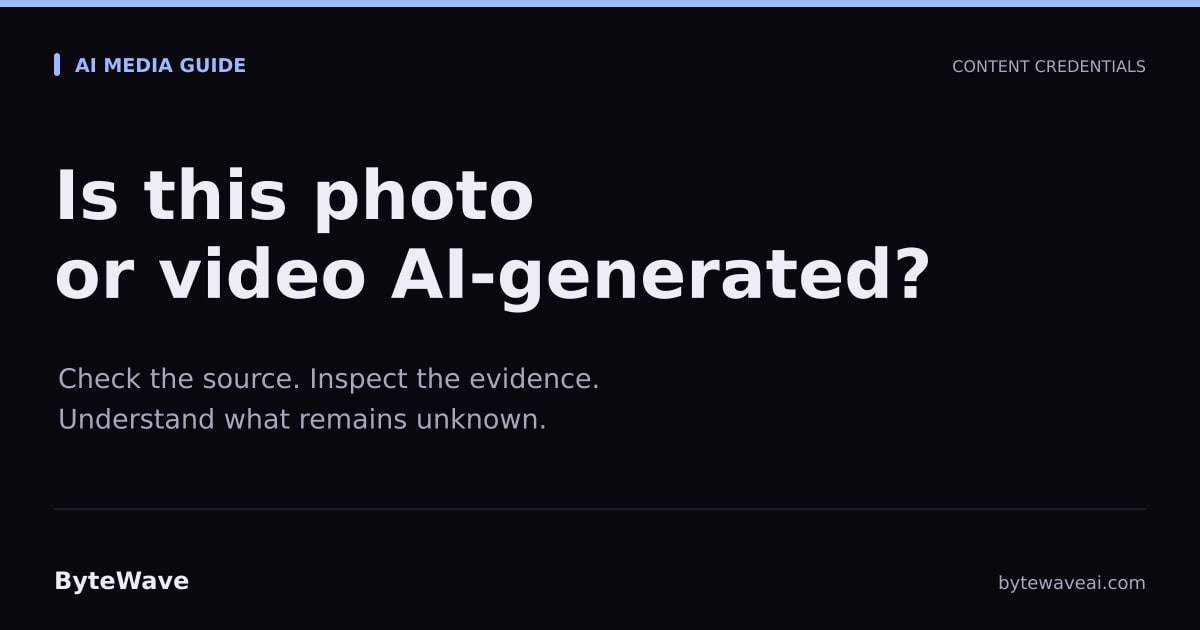
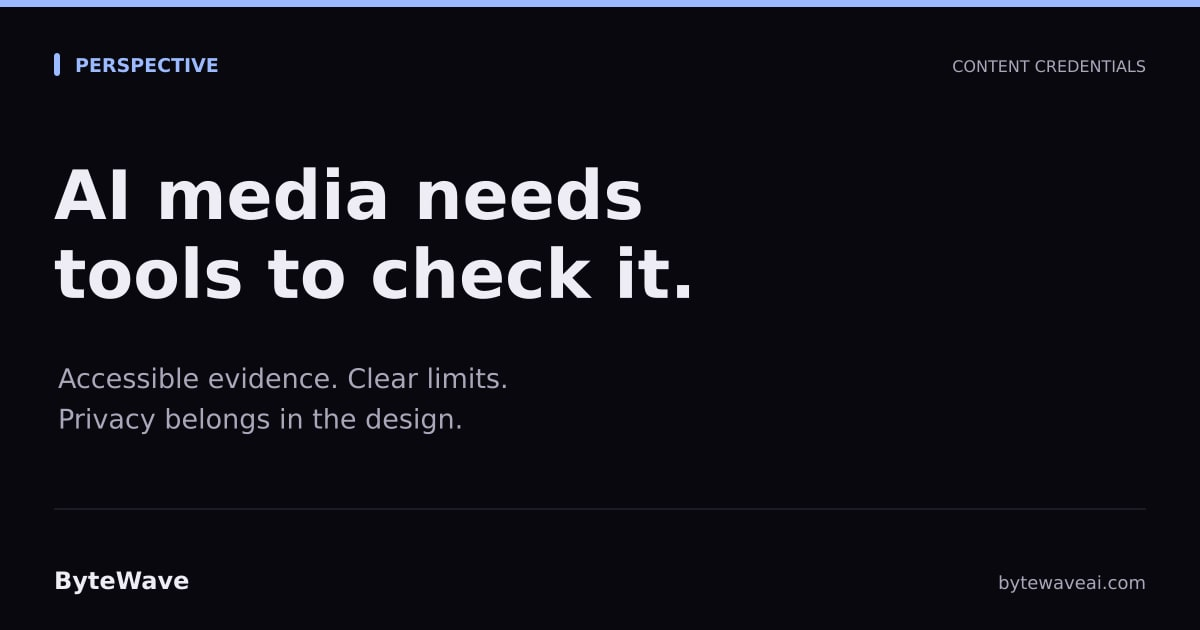
Separate AI-media perspective from C2PA tutorial and remove waiting step

Changed region(s): [[0.0308, 0.2413, 0.7708, 0.5127], [0.0308, 0.573, 0.4933, 0.6937], [0.0617, 0.0905, 0.2158, 0.1206]]

diff --git a/blog/how-to-check-ai-generated-photos-videos.html b/blog/how-to-check-ai-generated-photos-videos.html
@@ -3,24 +3,24 @@
 <head>
     <meta charset="UTF-8">
     <meta name="viewport" content="width=device-width, initial-scale=1.0">
-    <title>How to Check AI-Generated Photos and Videos - ByteWave</title>
-    <meta name="description" content="Check a photo or video for AI-generation evidence. Learn how sources, C2PA Content Credentials, and ByteWave provenance badges help—and where they stop.">
+    <title>Why We Need AI-Media Checking Tools - ByteWave</title>
+    <meta name="description" content="Creating synthetic media is easy. People need accessible, privacy-respecting tools to inspect its origins, understand the evidence, and recognize uncertainty.">
     <link rel="canonical" href="https://bytewaveai.com/blog/how-to-check-ai-generated-photos-videos.html">
     <meta property="og:type" content="article">
-    <meta property="og:title" content="How to Check Whether a Photo or Video Is AI-Generated">
-    <meta property="og:description" content="Check a photo or video for AI-generation evidence. Learn how sources, C2PA Content Credentials, and ByteWave provenance badges help—and where they stop.">
+    <meta property="og:title" content="Why We Need Tools to Check AI-Generated Photos and Videos">
+    <meta property="og:description" content="Creating synthetic media is easy. People need accessible, privacy-respecting tools to inspect its origins, understand the evidence, and recognize uncertainty.">
     <meta property="og:url" content="https://bytewaveai.com/blog/how-to-check-ai-generated-photos-videos.html">
     <meta property="og:site_name" content="ByteWave">
     <meta property="og:image" content="https://bytewaveai.com/assets/social/how-to-check-ai-generated-photos-videos.jpg">
     <meta property="og:image:type" content="image/jpeg">
     <meta property="og:image:width" content="1200">
     <meta property="og:image:height" content="630">
-    <meta property="og:image:alt" content="Is this photo or video AI-generated? A ByteWave guide to checking the evidence.">
+    <meta property="og:image:alt" content="Why we need tools to check AI media. Accessible evidence, clear limits, and privacy.">
     <meta name="twitter:card" content="summary_large_image">
-    <meta name="twitter:title" content="How to Check Whether a Photo or Video Is AI-Generated">
-    <meta name="twitter:description" content="Check a photo or video for AI-generation evidence. Learn how sources, C2PA Content Credentials, and ByteWave provenance badges help—and where they stop.">
+    <meta name="twitter:title" content="Why We Need Tools to Check AI-Generated Photos and Videos">
+    <meta name="twitter:description" content="Creating synthetic media is easy. People need accessible, privacy-respecting tools to inspect its origins, understand the evidence, and recognize uncertainty.">
     <meta name="twitter:image" content="https://bytewaveai.com/assets/social/how-to-check-ai-generated-photos-videos.jpg">
-    <meta name="twitter:image:alt" content="Is this photo or video AI-generated? A ByteWave guide to checking the evidence.">
+    <meta name="twitter:image:alt" content="Why we need tools to check AI media. Accessible evidence, clear limits, and privacy.">
     <meta property="article:published_time" content="2026-09-19">
     <meta property="article:modified_time" content="2026-09-19">
     <link rel="icon" href="/favicon-48x48.png">
@@ -36,8 +36,8 @@ article{overflow-wrap:anywhere}h2[id]{scroll-margin-top:6rem}li+li{margin-top:.6
   "@graph": [
     {
       "@type": "BlogPosting",
-      "headline": "How to Check Whether a Photo or Video Is AI-Generated",
-      "description": "Check a photo or video for AI-generation evidence. Learn how sources, C2PA Content Credentials, and ByteWave provenance badges help—and where they stop.",
+      "headline": "Why We Need Tools to Check AI-Generated Photos and Videos",
+      "description": "Creating synthetic media is easy. People need accessible, privacy-respecting tools to inspect its origins, understand the evidence, and recognize uncertainty.",
       "url": "https://bytewaveai.com/blog/how-to-check-ai-generated-photos-videos.html",
       "mainEntityOfPage": "https://bytewaveai.com/blog/how-to-check-ai-generated-photos-videos.html",
       "datePublished": "2026-09-19",
@@ -81,7 +81,7 @@ article{overflow-wrap:anywhere}h2[id]{scroll-margin-top:6rem}li+li{margin-top:.6
         {
           "@type": "ListItem",
           "position": 3,
-          "name": "How to Check Whether a Photo or Video Is AI-Generated",
+          "name": "Why We Need Tools to Check AI-Generated Photos and Videos",
           "item": "https://bytewaveai.com/blog/how-to-check-ai-generated-photos-videos.html"
         }
       ]
@@ -105,22 +105,17 @@ article{overflow-wrap:anywhere}h2[id]{scroll-margin-top:6rem}li+li{margin-top:.6
 </nav>
 <main id="main">
 <article>
-    <p class="eyebrow">AI media guide</p>
-    <h1>How to Check Whether a Photo or Video Is AI-Generated</h1>
+    <p class="eyebrow">Perspective</p>
+    <h1>Why We Need Tools to Check AI-Generated Photos and Videos</h1>
     <p class="meta">By <a href="/about.html">ByteWave</a> · Published <time datetime="2026-09-19">September 19, 2026</time> · Updated <time datetime="2026-09-19">September 19, 2026</time></p>
     <p class="disclosure">Published by ByteWave, which makes the app discussed here. AI tools assisted research, drafting, and editing.</p>
 
-    <p class="lead">Someone sends you a surprising photo or video. Before you forward it, look for its original source and any available Content Credentials. A confident-looking clip, an AI detector score, and a verified AI-generation disclosure are different kinds of evidence.</p>
-    <p class="quick-links"><a href="#check">A practical checking process</a><a href="#tools">Why accessible checking tools matter</a><a href="#bytewave">Try the ByteWave tutorial</a></p>
+    <p class="lead">Making synthetic media easy to create should come with a corresponding investment in helping people understand what they receive. We believe tools for inspecting media should be accessible, respect privacy, and explain their evidence clearly. That is part of what we are building in ByteWave.</p>
+    <p class="quick-links"><a href="#check">Why context still matters</a><a href="#tools">Why accessible checking tools matter</a><a href="#bytewave">Try the ByteWave tutorial</a></p>
 
-    <h2 id="check">Start with the claim and the original source</h2>
-    <ol>
-        <li><strong>Identify what is being claimed.</strong> “This event happened yesterday” requires different evidence from “this creator used AI.” Write down the claim before deciding what to check.</li>
-        <li><strong>Find the earliest available source.</strong> Ask the sender where the file came from. Look for the original post, creator, date, and surrounding context.</li>
-        <li><strong>Request the original file when possible.</strong> Keep a copy before editing or removing metadata. A screenshot of a post gives you less of the original file to inspect.</li>
-        <li><strong>Inspect available provenance.</strong> Check whether the file carries a verifiable disclosure of AI generation. The <a href="/tutorials/check-c2pa-content-credentials/">ByteWave tutorial</a> explains its badges and how to read them.</li>
-        <li><strong>Check the underlying story separately.</strong> Look for corroboration from identifiable sources. If you cannot establish the claim, say that rather than presenting your guess as fact.</li>
-    </ol>
+    <h2 id="check">People need evidence, not another confident answer</h2>
+    <p>Imagine receiving a clip presented as footage of an event yesterday. There are two questions: how was the file made, and does it support the story attached to it? A tool that addresses only the first cannot settle the second. Even a camera recording could be old footage shared with a new caption.</p>
+    <p>That is why we want checking tools to complement source research. The original creator, date, context, and corroborating evidence still matter. A useful interface should help someone understand the evidence they have, without pretending to resolve questions it cannot answer.</p>
 
     <h2>What C2PA Content Credentials can tell you</h2>
     <p>C2PA Content Credentials carry signed statements about a file's origin and editing history, which can include AI use. Validation checks the credential's integrity and connection to the asset; it does not certify that a scene happened. Credentials are optional, so their absence is not proof of either camera capture or AI generation. <a href="https://spec.c2pa.org/specifications/specifications/2.2/explainer/Explainer.html">Source: the C2PA explainer</a>.</p>
@@ -128,7 +123,6 @@ article{overflow-wrap:anywhere}h2[id]{scroll-margin-top:6rem}li+li{margin-top:.6
 
     <h2>Why an AI detector and a credential reader are different</h2>
     <p>A detector's classification is an assessment. A credential reader examines recorded claims and their verification status. When choosing a tool, ask which kind of result it provides, whether its score is calibrated, and what it reports when evidence is missing. Do not convert a percentage into a certainty the tool has not established.</p>
-    <p>In ByteWave, <strong>Verified AI-generated</strong> is distinct from the heuristic labels <strong>Likely synthetic</strong> and <strong>Likely camera capture</strong>. Its displayed metadata score is not a measured probability that an event is real. The tutorial covers these differences before you draw a conclusion.</p>
 
     <h2 id="tools">People need accessible ways to inspect media</h2>
     <p>Our position is straightforward: if tools make it easy to create synthetic media, people should also have accessible ways to examine the evidence attached to it. That should include the person receiving a family message, not just a newsroom or a forensic specialist.</p>
@@ -137,9 +131,9 @@ article{overflow-wrap:anywhere}h2[id]{scroll-margin-top:6rem}li+li{margin-top:.6
 
     <h2>What if sharing removed the credentials?</h2>
     <p>C2PA documents that credentials can be separated from media. Some implementations can rediscover them using supported watermarks or fingerprints, but that capability is not universal. An ordinary embedded-credential check should not be mistaken for a search of every possible external record. <a href="https://c2pa.org/faqs/">Source: C2PA's explanation of stripped metadata</a>.</p>
-    <p>Try obtaining the original file from its source. If the result is still inconclusive, keep that uncertainty in your description when discussing the media.</p>
+    <p>This is a design challenge for checking tools: missing evidence needs an honest explanation. A file should not receive a reassuring verdict merely because the information needed to assess it is unavailable.</p>
 
-    <h2 id="bytewave">Check the available evidence in ByteWave</h2>
+    <h2 id="bytewave">Putting that principle into ByteWave</h2>
     <p>The <a href="/tutorials/check-c2pa-content-credentials/">C2PA Content Credentials tutorial</a> walks through importing a photo or video, opening its provenance badge, and interpreting the result. It also explains why a ByteWave export signature and a source's AI-generation declaration answer different questions.</p>
     <div class="callout"><h2>Start with one file</h2><p>Bring a photo or video you want to examine and follow the written steps.</p><a class="button" href="/tutorials/check-c2pa-content-credentials/">Check Content Credentials in ByteWave</a></div>
     <p>For feed controls, see our <a href="/blog/reduce-ai-videos-facebook-feed.html">Facebook guide</a> and <a href="/blog/reduce-ai-content-tiktok-feed.html">TikTok guide</a>. For questions about giving an agent access to your accounts, read our <a href="/blog/meta-muse-privacy-security.html">Meta Muse privacy and security guide</a>.</p>

diff --git a/tutorials/check-c2pa-content-credentials/index.html b/tutorials/check-c2pa-content-credentials/index.html
@@ -119,7 +119,6 @@ article{overflow-wrap:anywhere}h2[id]{scroll-margin-top:6rem}li+li{margin-top:.6
         <li><strong>Keep the original.</strong> Start with the original photo or video available to you. Save a copy before editing, exporting, or using metadata-removal tools.</li>
         <li><strong>Import the media into ByteWave.</strong> Use the editor's media import flow to choose your photo or video. Provenance can appear during import review; you can also inspect the imported clip in the editor.</li>
         <li><strong>Select the clip in the timeline.</strong> Look for its provenance badge. If the badge controls are collapsed, expand them with the hexagon control labeled <strong>Show Badges</strong>.</li>
-        <li><strong>Wait for the check to finish.</strong> A <strong>Checking provenance</strong> state is not a completed assessment.</li>
         <li><strong>Tap or click the provenance badge.</strong> Its chevron expands the details. Read the status text and available details rather than judging by the badge's color alone. Tap it again to collapse it.</li>
         <li><strong>Keep your conclusion as specific as the result.</strong> A verified AI-generation disclosure, a metadata-based assessment, and an unverified file support different statements.</li>
     </ol>
@@ -149,11 +148,11 @@ article{overflow-wrap:anywhere}h2[id]{scroll-margin-top:6rem}li+li{margin-top:.6
     <h2 id="limits">Why you might not get a verified result</h2>
     <p>C2PA credentials are optional and can be removed. A file without them is not automatically real or fake. A valid credential also does not independently prove that the event depicted happened. <a href="https://spec.c2pa.org/specifications/specifications/2.2/explainer/Explainer.html">Read C2PA's goals and limits</a>.</p>
     <p>ByteWave's embedded-credential check is not a universal detector for every AI generator or file. Unsupported, invalid, or untrusted credentials may be inconclusive. It does not promise to recover remote credentials or decode invisible AI watermarks such as SynthID.</p>
-    <p>If a received copy gives no useful result, ask for the original file and import that. Avoid exporting or removing metadata first. If the check remains inconclusive, use the <a href="/blog/how-to-check-ai-generated-photos-videos.html">source-checking process in our AI-media guide</a>.</p>
+    <p>If a received copy gives no useful result, ask for the original file and import that. Avoid exporting or removing metadata first. If the check remains inconclusive, look for the original creator, date, and context, and corroborate the claim with other sources.</p>
 
     <h2>Do I need to publish the file?</h2>
     <p>No. Inspecting an imported clip does not require posting it to ByteWave's public feed. Embedded credential verification runs locally; obtaining an original from iCloud Photos may still require a network connection. Optional publishing is a separate action. See the <a href="/privacy.html">ByteWave privacy policy</a>.</p>
-    <p>For the broader purpose of provenance, read <a href="/blog/provenance.html">Provenance, not prominence</a>. Our <a href="/blog/how-to-check-ai-generated-photos-videos.html">AI-media checking guide</a> explains where credential inspection fits alongside checking sources.</p>
+    <p>For the broader purpose of provenance, read <a href="/blog/provenance.html">Provenance, not prominence</a>. Our article on <a href="/blog/how-to-check-ai-generated-photos-videos.html">why accessible AI-media checking tools matter</a> explains the thinking behind these tools.</p>
 
     <div class="callout">
         <h2>Explore ByteWave</h2>

diff --git a/blog/index.html b/blog/index.html
@@ -162,9 +162,9 @@ footer .tagline{margin-top:.3rem;font-size:.7rem;letter-spacing:0.3px}
   </a>
 
   <a href="/blog/how-to-check-ai-generated-photos-videos.html" class="post-card">
-    <span class="tag">AI media guide</span>
-    <h2>How to Check Whether a Photo or Video Is AI-Generated</h2>
-    <p>Check a photo or video for AI-generation evidence. Learn how sources, C2PA Content Credentials, and ByteWave provenance badges help—and where they stop.</p>
+    <span class="tag">Perspective</span>
+    <h2>Why We Need Tools to Check AI-Generated Photos and Videos</h2>
+    <p>Creating synthetic media is easy. People need accessible, privacy-respecting tools to inspect its origins, understand the evidence, and recognize uncertainty.</p>
   </a>
 
   <a href="/tutorials/check-c2pa-content-credentials/" class="post-card">
